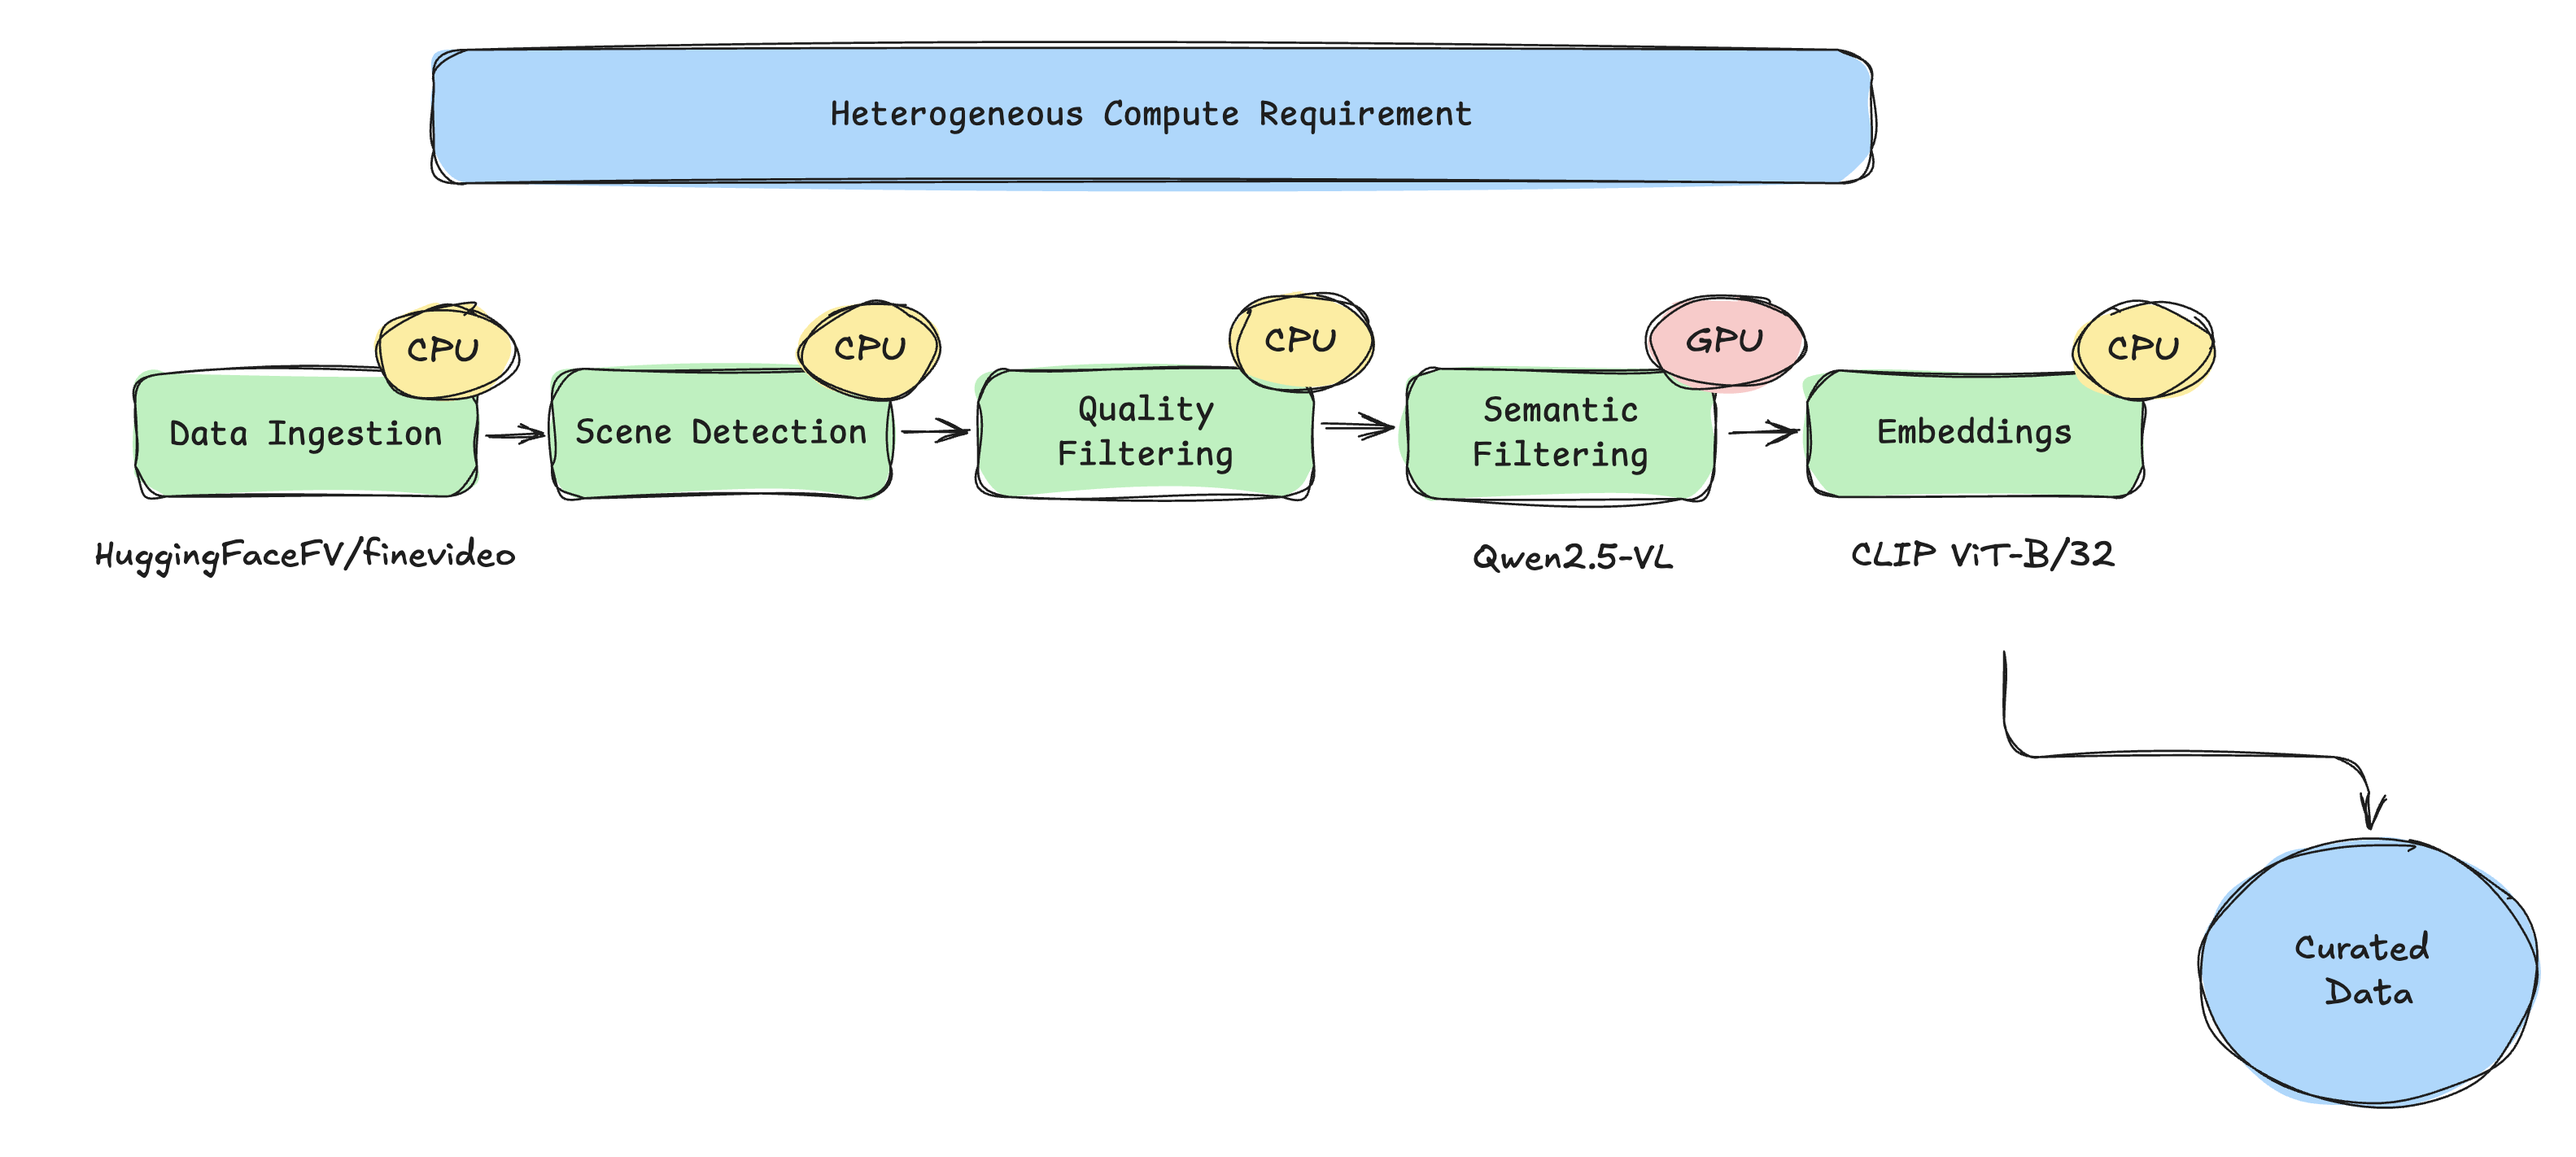
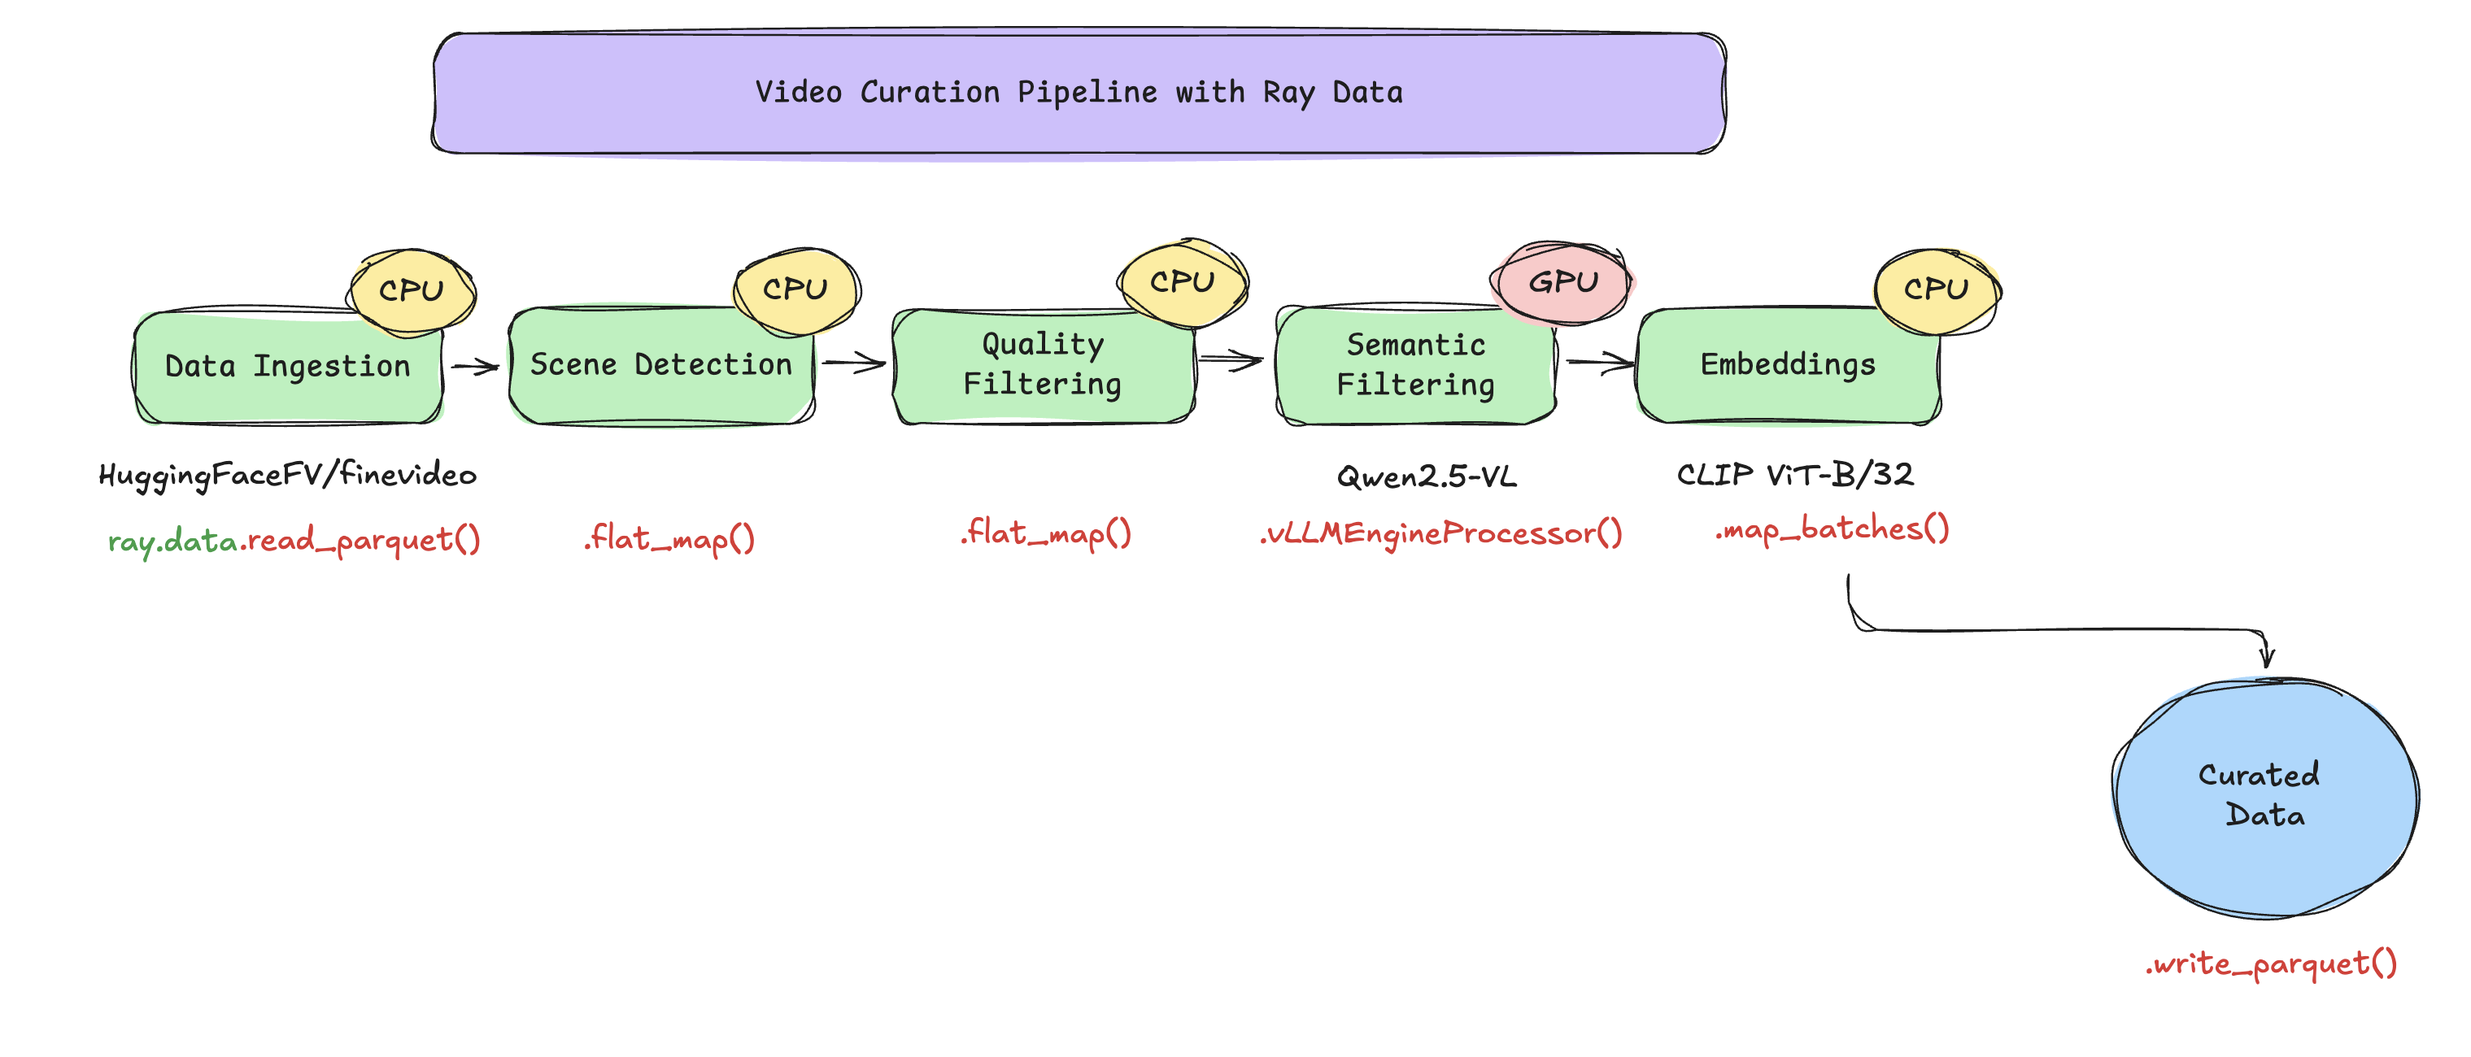
fixed readme

diff --git a/video_curation_streaming/README.md b/video_curation_streaming/README.md
@@ -30,11 +30,11 @@ Each `.py` file has per-stage IO comments, see [`video_curation.py`](video_curat
 
 The key idea is **streaming execution with heterogeneous resources**. Traditional staged pipelines run one stage at a time, GPUs sit idle during CPU stages. This pipeline chains all five stages so CPU and GPU work run concurrently:
 
-![Video curation pipeline with Ray Data](assets/img2.png)
+![Video curation pipeline with Ray Data](assets/img1.png)
 
 [Ray Data's](https://docs.ray.io/en/latest/data/data.html) streaming executor places each operator on the right node type, flows data block-by-block between them, and applies backpressure automatically.
 
-![Heterogeneous scheduling with Ray Data](assets/img3.png)
+![Heterogeneous scheduling with Ray Data](assets/img2.png)
 
 ## Install the Anyscale CLI
 
